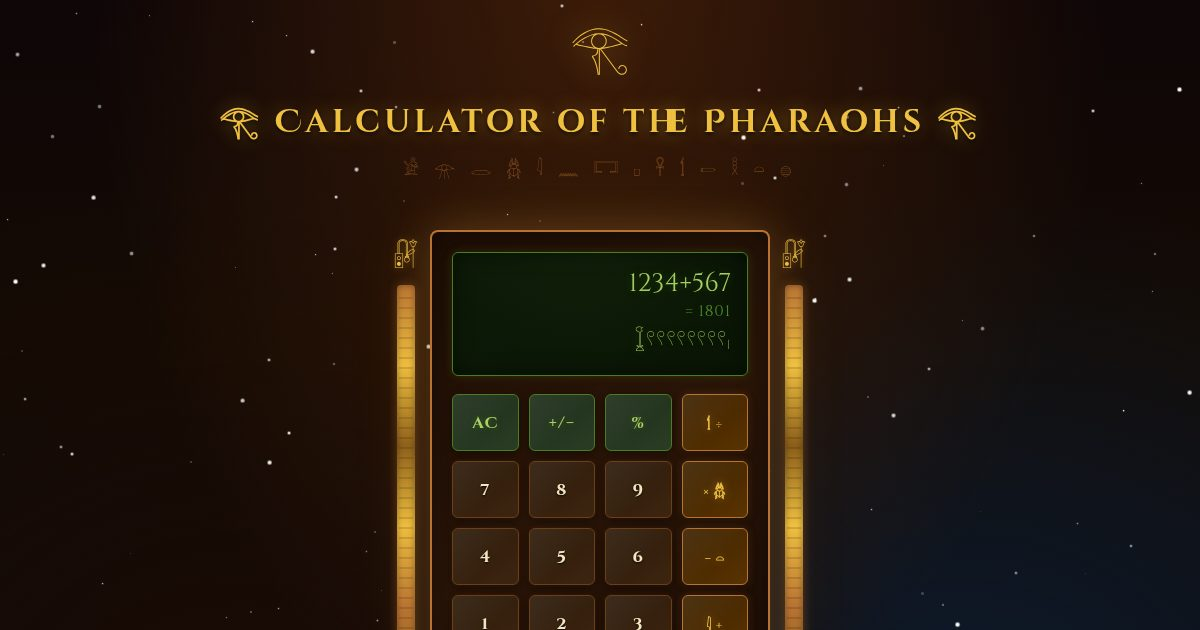
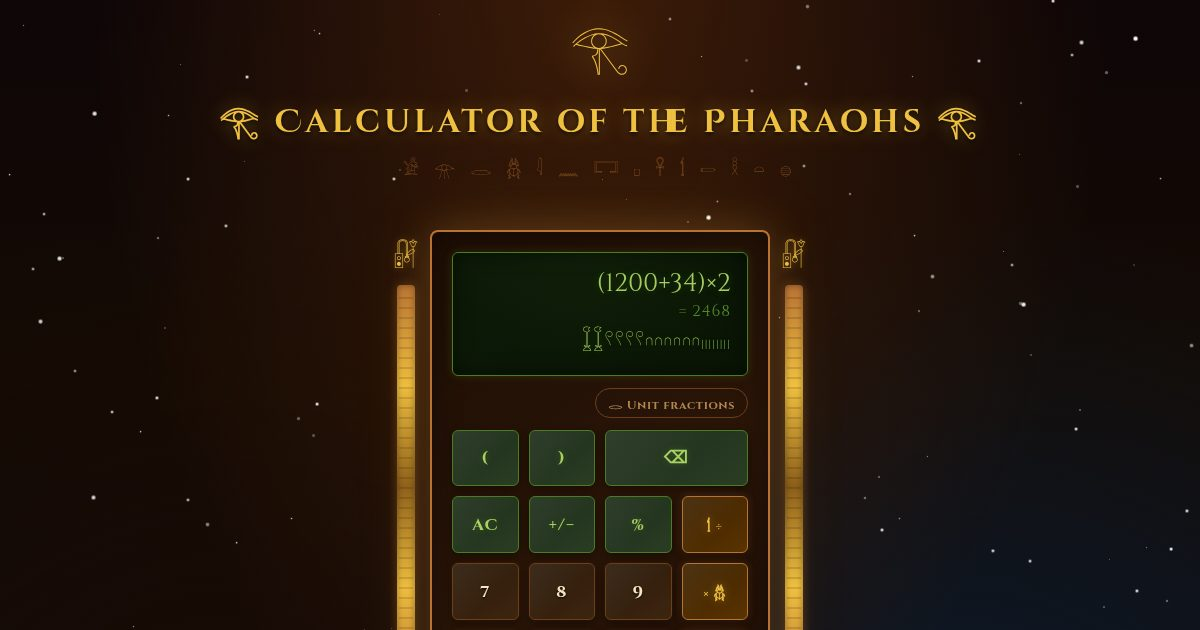
Add bracket and backspace buttons
A new top row has ( ) and a wide ⌫, and ( ) work from the keyboard.
Brackets behave like a phone calculator's:
- an unclosed bracket is closed for the preview and on "=" ((2+3 → 5)
- a number or bracket straight after another means multiply
  (2(3+4) → 2×(3+4), (2+3)4 → (2+3)×4)
- ")" only appears when a bracket is open and has something in it; an
  operator can't follow "(" except a minus sign, which negates
- % after + or − inside brackets takes the percent of what comes before
  it in the same bracket (2×(50+10% → 2×(50+5)

Input editing without brackets is unchanged (identical on 20,000 random
sequences). 9 new unit tests, 2 new browser tests; the screenshot and
link-preview image show the new row.

Changed region(s): [[0.3083, 0.6032, 0.6783, 1.0], [0.4933, 0.4222, 0.6167, 0.5429]]

diff --git a/calc-core.js b/calc-core.js
@@ -244,41 +244,86 @@ function lastNumber(expr) {
   return match ? match[0] : '';
 }
 
+// How many "(" are still waiting for a ")"
+function openParens(expr) {
+  let open = 0;
+  for (const ch of expr) {
+    if (ch === '(') open++;
+    else if (ch === ')') open--;
+  }
+  return open;
+}
+
+// The expression with any unclosed brackets closed, as a phone calculator
+// does for its preview and on "=": "(2+3" → "(2+3)"
+function withClosedParens(expr) {
+  return expr + ')'.repeat(Math.max(0, openParens(expr)));
+}
+
+// A number or "(" straight after a number or ")" means multiply: 2( → 2×(
+const timesIfNeeded = expr => /[\d.)]$/.test(expr) ? expr + '×' : expr;
+
+function withOpenParen(expr) {
+  return timesIfNeeded(expr) + '(';
+}
+
+function withCloseParen(expr) {
+  // Only close a bracket that's open, and only after a number or ")"
+  return openParens(expr) > 0 && /[\d.)]$/.test(expr) ? expr + ')' : expr;
+}
+
 function withDigit(expr, digit) {
   // A result like 1e-8 is complete; more digits would land in the exponent
   if (lastNumber(expr).includes('e')) return expr;
+  if (expr.endsWith(')')) expr += '×';
   // Replace a lone leading zero so "0" then "7" reads 7, not 07
-  const current = expr.split(/[÷×−+]/).pop();
+  const current = expr.split(/[÷×−+(]/).pop();
   if (current === '0' || current === '-0') expr = expr.slice(0, -1);
   return expr + digit;
 }
 
 function withOp(expr, op) {
-  // Minus at the start or straight after an operator negates the next number
-  if (op === '−' && (!expr || OPS.includes(expr.slice(-1)))) return expr + '-';
-  // Drop a dangling negative sign and/or trailing operator, then add the new one
+  // Minus at the start, or straight after an operator or "(", negates the
+  // next number
+  const last = expr.slice(-1);
+  if (op === '−' && (!expr || OPS.includes(last) || last === '(')) return expr + '-';
+  // Drop a dangling negative sign and/or trailing operator, then add the new
+  // one (an operator can't follow "(" directly)
   expr = expr.replace(/[÷×−+]?-$/, '').replace(/[÷×−+]$/, '');
-  return expr ? expr + op : expr;
+  return expr && !expr.endsWith('(') ? expr + op : expr;
 }
 
 function withDecimal(expr) {
   if (lastNumber(expr).includes('e')) return expr;
+  if (expr.endsWith(')')) expr += '×';
   // Only add dot if the current number segment doesn't already have one
-  const last = expr.split(/[÷×−+]/).pop();
+  const last = expr.split(/[÷×−+(]/).pop();
   if (last === '' || last === '-') expr += '0';
   return last.includes('.') ? expr : expr + '.';
 }
 
+// The part of the expression inside the innermost bracket that's still
+// open, or all of it if none is: "2×(50+10" → "50+10"
+function openGroup(expr) {
+  let depth = 0;
+  for (let i = expr.length - 1; i >= 0; i--) {
+    if (expr[i] === ')') depth++;
+    else if (expr[i] === '(' && depth-- === 0) return expr.slice(i + 1);
+  }
+  return expr;
+}
+
 // Works like a phone calculator: after + or − it takes that percent of
-// everything before it (50+10% → 50+5); otherwise it divides the last
-// number by 100 (50×10% → 50×0.1, 10% → 0.1)
+// what comes before it in the same bracket (50+10% → 50+5,
+// 2×(50+10% → 2×(50+5); otherwise it divides the last number by 100
+// (50×10% → 50×0.1, 10% → 0.1)
 function withPercent(expr) {
   const num = lastNumber(expr);
   if (!num) return expr;
   const head = expr.slice(0, -num.length);
   let value = Number(num) / 100;
   if (head.endsWith('+') || head.endsWith('−')) {
-    const base = evalExpression(head.slice(0, -1));
+    const base = evalExpression(openGroup(head.slice(0, -1)));
     if (base === null) return expr;
     value *= base;
   }
@@ -290,5 +335,6 @@ if (typeof module !== 'undefined') {
     toEgyptian, toFraction, unitFractions, describeHieroglyph, readGlyphs,
     formatNum, evalExpression,
     withDigit, withOp, withDecimal, withPercent,
+    withOpenParen, withCloseParen, withClosedParens,
   };
 }

diff --git a/tests/calc-core.test.js b/tests/calc-core.test.js
@@ -5,6 +5,7 @@ const {
   toEgyptian, toFraction, unitFractions, describeHieroglyph, readGlyphs,
   formatNum, evalExpression,
   withDigit, withOp, withDecimal, withPercent,
+  withOpenParen, withCloseParen, withClosedParens,
 } = require('../calc-core.js');
 
 // Builds an expression from button presses, e.g. type('5×−3')
@@ -14,6 +15,8 @@ function type(keys) {
   for (const k of keys) {
     if (k >= '0' && k <= '9') expr = withDigit(expr, k);
     else if (k === '.') expr = withDecimal(expr);
+    else if (k === '(') expr = withOpenParen(expr);
+    else if (k === ')') expr = withCloseParen(expr);
     else expr = withOp(expr, k);
   }
   return expr;
@@ -260,4 +263,49 @@ test('readGlyphs treats each fraction as one piece', () => {
 
 test('readGlyphs of an empty line is empty', () => {
   assert.deepEqual(readGlyphs(''), { parts: [], reading: '' });
+});
+
+test('brackets group and nest', () => {
+  assert.equal(calc('(2+3)×4'), 20);
+  assert.equal(calc('((1+2)×(3−1))÷2'), 3);
+  assert.equal(calc('(−5)×2'), -10);
+  assert.equal(calc('5−(−(2))'), 7);
+});
+
+test('a number or bracket straight after another means multiply', () => {
+  assert.equal(type('2(3+4)'), '2×(3+4)');
+  assert.equal(type('(2+3)4'), '(2+3)×4');
+  assert.equal(type('(2+3)(1+1)'), '(2+3)×(1+1)');
+  assert.equal(type('(2+3).5'), '(2+3)×0.5');
+});
+
+test('closing brackets only when one is open and something is inside', () => {
+  assert.equal(type('5)'), '5');
+  assert.equal(type('()'), '(');
+  assert.equal(type('(2+)'), '(2+');
+  assert.equal(type('(2))'), '(2)');
+});
+
+test('operators and decimals right after an opening bracket', () => {
+  assert.equal(type('(×5'), '(5');
+  assert.equal(type('(−5'), '(-5');
+  assert.equal(type('(−+5'), '(5');
+  assert.equal(type('(.5'), '(0.5');
+  assert.equal(type('(07'), '(7');
+});
+
+test('unclosed brackets are closed for the answer', () => {
+  assert.equal(withClosedParens('(2+3'), '(2+3)');
+  assert.equal(withClosedParens('((1+2)×(3'), '((1+2)×(3))');
+  assert.equal(withClosedParens('(2+3)'), '(2+3)');
+  assert.equal(evalExpression(withClosedParens(type('(2+3'))), 5);
+  assert.equal(evalExpression(withClosedParens(type('1+('))), null);
+});
+
+test('percent inside brackets uses the bracketed total', () => {
+  assert.equal(withPercent('(50+10'), '(50+5');
+  assert.equal(withPercent('2×(50+10'), '2×(50+5');
+  assert.equal(withPercent('(2+3)'), '(2+3)');
+  assert.equal(withPercent('(2+3)+10'), '(2+3)+0.5');
+  assert.equal(withPercent('10×(2+(50+10'), '10×(2+(50+5');
 });

diff --git a/calculator.js b/calculator.js
@@ -92,8 +92,8 @@ hierEl.addEventListener('blur', () => explain(''));
 function updateDisplay() {
   exprEl.textContent = expression || '0';
 
-  // Live preview while typing
-  const preview = evalExpression(expression);
+  // Live preview while typing, with any open brackets closed
+  const preview = evalExpression(withClosedParens(expression));
   if (preview !== null && expression !== String(preview)) {
     resultEl.textContent = '= ' + formatNum(preview);
     showHieroglyph(preview);
@@ -132,9 +132,27 @@ function clearAll() {
   updateDisplay();
 }
 
+function appendOpenParen() {
+  if (justCalculated) { expression = ''; justCalculated = false; }
+  expression = withOpenParen(expression);
+  updateDisplay();
+}
+
+function appendCloseParen() {
+  justCalculated = false;
+  expression = withCloseParen(expression);
+  updateDisplay();
+}
+
+function backspace() {
+  expression = expression.slice(0, -1);
+  justCalculated = false;
+  updateDisplay();
+}
+
 function toggleSign() {
   if (!expression) return;
-  const val = evalExpression(expression);
+  const val = evalExpression(withClosedParens(expression));
   if (val !== null) {
     expression = formatNum(-val);
     justCalculated = false;
@@ -150,7 +168,7 @@ function percent() {
 
 function calculate() {
   if (!expression) return;
-  const result = evalExpression(expression);
+  const result = evalExpression(withClosedParens(expression));
   if (result === null) return;
 
   // Infinity/NaN can't be computed on further — show it, then start fresh
@@ -193,6 +211,9 @@ const ACTIONS = {
   percent,
   decimal: appendDecimal,
   equals: calculate,
+  open: appendOpenParen,
+  close: appendCloseParen,
+  backspace,
   fractions: toggleFractions,
 };
 
@@ -216,11 +237,9 @@ document.addEventListener('keydown', e => {
   else if (e.key === '*') appendOp('×');
   else if (e.key === '/') appendOp('÷');
   else if (e.key === 'Enter' || e.key === '=') calculate();
-  else if (e.key === 'Backspace') {
-    expression = expression.slice(0, -1);
-    justCalculated = false;
-    updateDisplay();
-  }
+  else if (e.key === 'Backspace') backspace();
+  else if (e.key === '(') appendOpenParen();
+  else if (e.key === ')') appendCloseParen();
   else if (e.key === 'Escape' || e.key === 'Delete' || e.key === 'c' || e.key === 'C') clearAll();
   else if (e.key === '%') percent();
   else if (e.key === 'f' || e.key === 'F') toggleFractions();

diff --git a/tests/browser.spec.js b/tests/browser.spec.js
@@ -43,6 +43,26 @@ test('every function button works', async ({ page }) => {
   await expect(display(page)).toHaveText('1.5');
 });
 
+test('bracket and backspace buttons', async ({ page }) => {
+  await press(page, 'Open bracket', '2', 'Add', '3');
+  // An open bracket is closed for the preview
+  await expect(display(page)).toHaveText('(2+3');
+  await expect(preview(page)).toHaveText('= 5');
+  await press(page, 'Close bracket', '4');
+  await expect(display(page)).toHaveText('(2+3)×4');
+  await press(page, 'Backspace');
+  await expect(display(page)).toHaveText('(2+3)×');
+  await press(page, 'Open bracket', '1', 'Add', '1', 'Equals');
+  await expect(display(page)).toHaveText('10');
+});
+
+test('brackets from the keyboard', async ({ page }) => {
+  await page.keyboard.type('2(3+4');
+  await expect(display(page)).toHaveText('2×(3+4');
+  await page.keyboard.press('Enter');
+  await expect(display(page)).toHaveText('14');
+});
+
 test('keyboard input, including negative operands', async ({ page }) => {
   await page.keyboard.type('5*-3');
   await page.keyboard.press('Enter');
@@ -148,7 +168,8 @@ test('hieroglyphs render in the hieroglyph web font', async ({ page }) => {
 test('every button has an accessible name', async ({ page }) => {
   // The names a screen reader announces, so decorative glyphs must not leak in
   const expected = [
-    'Unit fractions', 'All clear', 'Toggle sign', 'Percent', 'Divide',
+    'Unit fractions', 'Open bracket', 'Close bracket', 'Backspace',
+    'All clear', 'Toggle sign', 'Percent', 'Divide',
     '7', '8', '9', 'Multiply', '4', '5', '6', 'Subtract',
     '1', '2', '3', 'Add', '0', 'Decimal point', 'Equals',
   ];

diff --git a/index.html b/index.html
@@ -16,7 +16,7 @@
   <meta property="og:image" content="https://highviewone.github.io/EgyptianCalculator/og-image.jpg" />
   <meta property="og:image:width" content="1200" />
   <meta property="og:image:height" content="630" />
-  <meta property="og:image:alt" content="The Egyptian Calculator showing a sum and its answer in hieroglyphs" />
+  <meta property="og:image:alt" content="The Egyptian Calculator showing (1200+34)×2 and its answer in hieroglyphs" />
   <meta name="twitter:card" content="summary_large_image" />
 
   <link rel="preconnect" href="https://fonts.googleapis.com" />
@@ -64,6 +64,11 @@
         </div>
 
         <div class="button-grid">
+          <!-- Row 0 -->
+          <button class="btn btn-fn" data-action="open" aria-label="Open bracket">(</button>
+          <button class="btn btn-fn" data-action="close" aria-label="Close bracket">)</button>
+          <button class="btn btn-fn btn-wide" data-action="backspace" aria-label="Backspace">⌫</button>
+
           <!-- Row 1 -->
           <button class="btn btn-fn" data-action="clear" aria-label="All clear">AC</button>
           <button class="btn btn-fn" data-action="sign" aria-label="Toggle sign">+/−</button>

diff --git a/style.css b/style.css
@@ -361,8 +361,9 @@ h1 {
   box-shadow: 0 3px 16px #00000099, 0 0 24px #f0c04088;
 }
 
-/* Wide zero button */
-.btn-zero {
+/* Wide zero and backspace buttons */
+.btn-zero,
+.btn-wide {
   grid-column: span 2;
 }
 

diff --git a/README.md b/README.md
@@ -22,7 +22,7 @@
 
 <br />
 
-<img src="screenshot.jpg" alt="Egyptian Calculator showing 1234+567 = 1801 with the answer in hieroglyphs" width="480" />
+<img src="screenshot.jpg" alt="Egyptian Calculator showing (1200+34)×2 = 2468 with the answer in hieroglyphs" width="480" />
 
 </div>
 
@@ -34,7 +34,7 @@
 |---|---|
 | 𓂀 **Egyptian Aesthetic** | Dark starfield sky, gold/bronze palette, temple pillars, Eye of Ra |
 | 𓏏 **Hieroglyphic Numerals** | Results displayed in authentic ancient Egyptian number glyphs |
-| 𓆣 **Full Calculator** | Addition, subtraction, multiplication, division, %, sign toggle, decimals |
+| 𓆣 **Full Calculator** | Addition, subtraction, multiplication, division, brackets, %, sign toggle, decimals, backspace |
 | 𓆼 **Read the Glyphs** | Hover or tap any hieroglyph to see what it's worth (𓆼 lotus flower · 1,000) |
 | 𓂋 **Unit Fractions** | Optional Egyptian-style fractions: 2/7 = 1/4 + 1/28, with the special 2/3 sign 𓂌 |
 | 𓋹 **Live Preview** | Answer appears as you type — no need to hit equals first |
@@ -119,12 +119,15 @@ Both run automatically on every pull request. The browser tests serve the page w
 | `+ - * /` | Operators |
 | `.` | Decimal point |
 | `Enter` or `=` | Calculate |
+| `(` `)` | Brackets |
 | `Backspace` | Delete last character |
 | `Escape`, `Delete` or `C` | Clear all |
 | `%` | Percent |
 | `F` | Toggle unit fractions |
 
-`%` works like a phone calculator: after `+` or `−` it takes that percent of what comes before (`50 + 10 %` → `50 + 5` = 55); otherwise it divides the last number by 100 (`50 × 10 %` → `50 × 0.1` = 5).
+Brackets work like a phone calculator's: an unclosed bracket is closed for you in the preview and on `=` (`(2+3` → 5), and a number or bracket straight after another means multiply (`2(3+4)` → `2×(3+4)`).
+
+`%` works like a phone calculator: after `+` or `−` it takes that percent of what comes before (`50 + 10 %` → `50 + 5` = 55); otherwise it divides the last number by 100 (`50 × 10 %` → `50 × 0.1` = 5). Inside brackets, the percent is of what comes before it in the same bracket.
 
 ---
 
